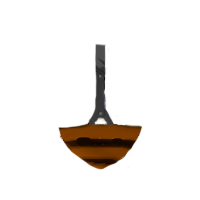
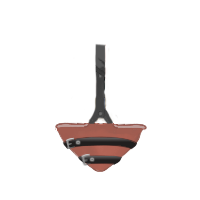
re-doing the images of the prison gag (#2582)
* 1

* 2

Changed region(s): [[0.27, 0.6, 0.75, 0.87]]

diff --git a/BondageClub/Assets/Female3DCG/Female3DCG.js b/BondageClub/Assets/Female3DCG/Female3DCG.js
@@ -3310,6 +3310,7 @@ var AssetFemale3DCG = [
 				Layer: [
 					{ Name: "Mask" },
 					{ Name: "Straps" },
+					{ Name: "Belts" },
 				]
 			},
 			{
@@ -3553,6 +3554,7 @@ var AssetFemale3DCG = [
 				Layer: [
 					{ Name: "Mask" },
 					{ Name: "Straps" },
+					{ Name: "Belts" },
 				]
 			},
 			{
@@ -3775,10 +3777,11 @@ var AssetFemale3DCG = [
 			},
 			{ Name: "RegressedMilk", Category: ["ABDL"], Fetish: ["ABDL"], Value: -1, Time: 10, IsRestraint: false,Random: false, Visible: false, BuyGroup: "RegressedMilk", Block: [], Effect: ["RegressedTalk"], ExpressionTrigger: [{ Name: "DroolSides", Group: "Fluids", Timer: 30 }] },
 			{
-				Name: "PrisonLockdownGag", Value: -1, Difficulty: 5, Time: 20, AllowLock: true, BuyGroup: "PrisonLockdownSuit", Prerequisite: "GagFlat", DefaultColor: "#8c4309", Hide: ["Mouth"], HideItem: ["ItemNoseNoseRing"],
+				Name: "PrisonLockdownGag", Value: -1, Difficulty: 5, Time: 20, AllowLock: true, BuyGroup: "PrisonLockdownSuit", Prerequisite: "GagFlat", DefaultColor: ["#8c4309", "Default"], Hide: ["Mouth"], HideItem: ["ItemNoseNoseRing"],
 				Layer: [
 					{ Name: "Mask" },
 					{ Name: "Straps" },
+					{ Name: "Belts" },
 				]
 			},
 			{
